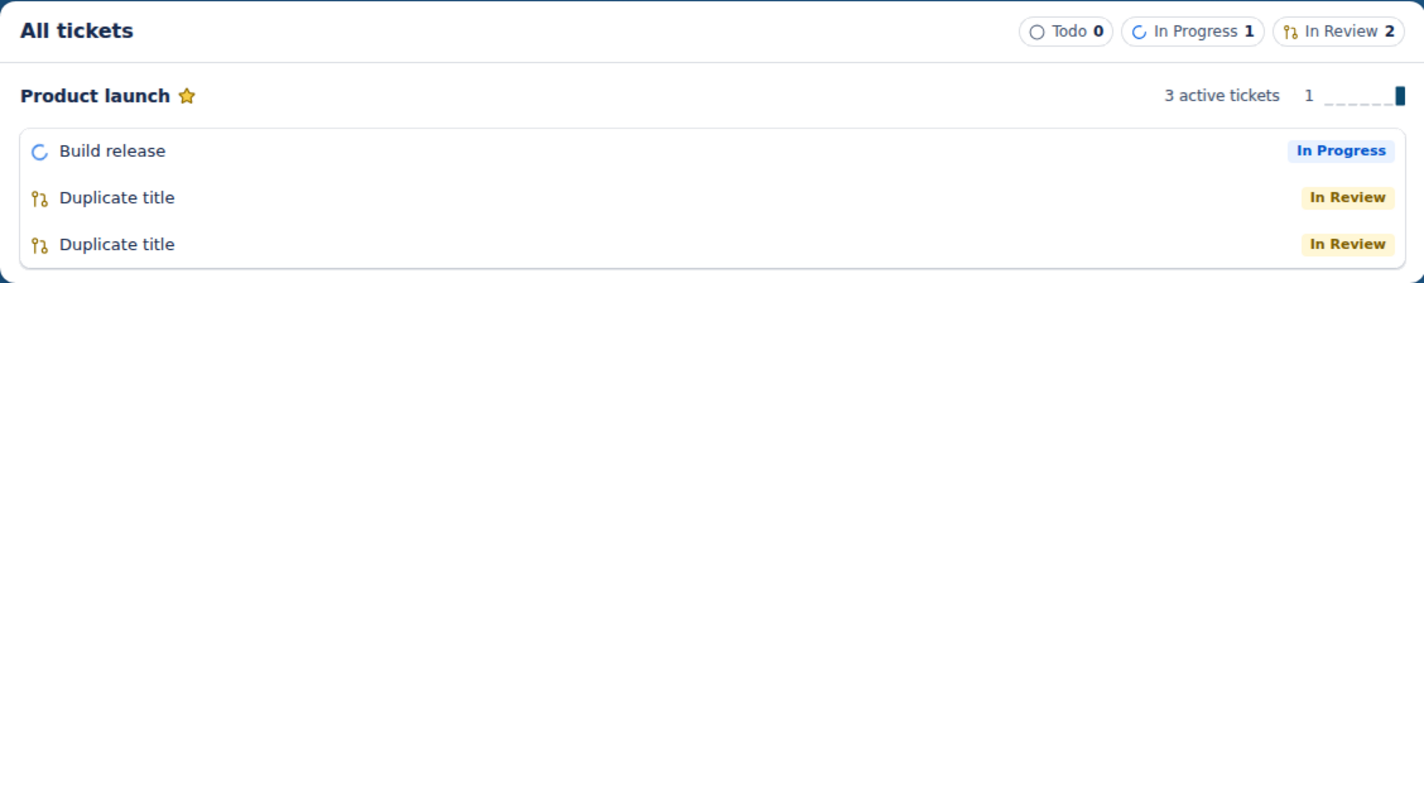
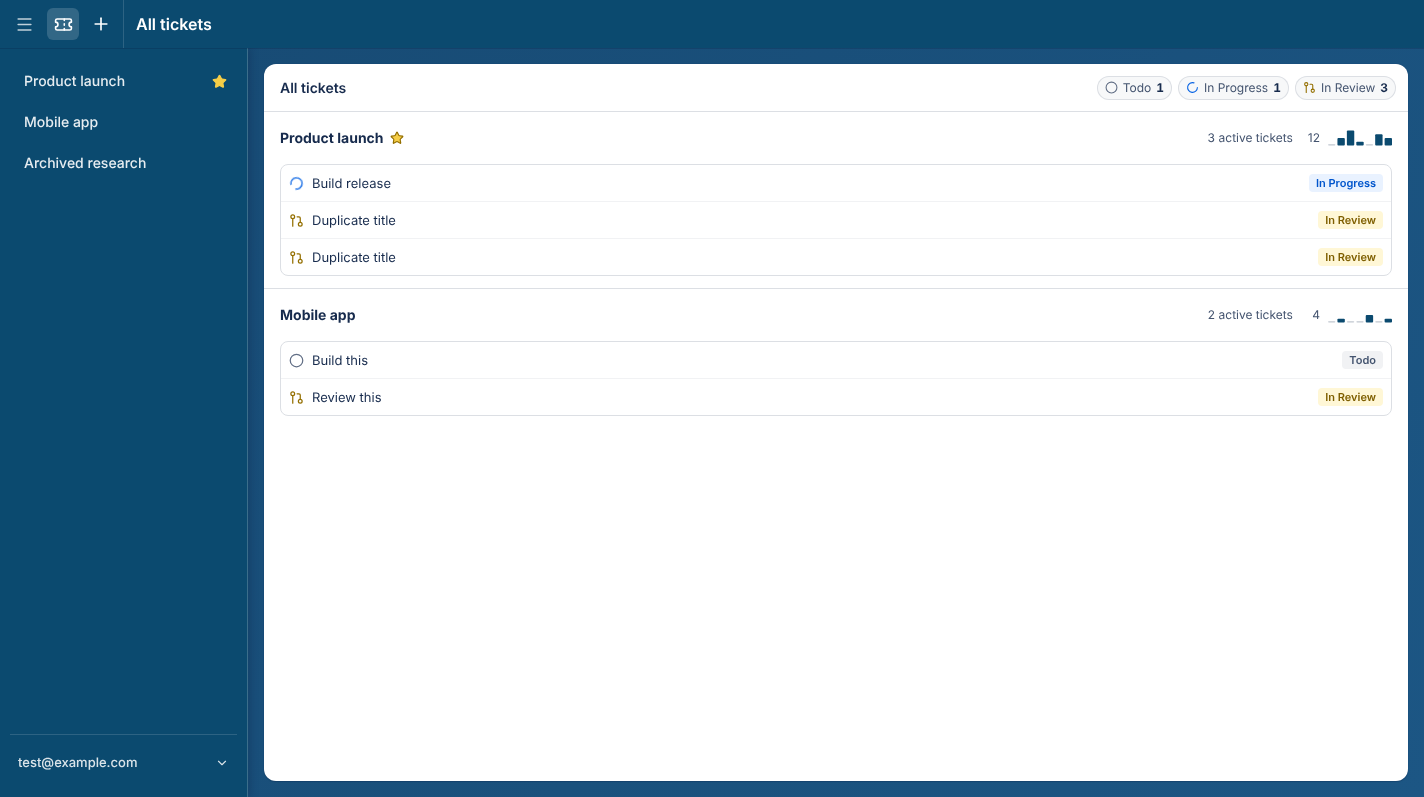
docs: refresh PR 97 screenshots for coherent ticket panel

Changed region(s): [[0.0, 0.0, 1.0, 1.0], [0.8652, 0.3915, 0.927, 0.4216], [0.2163, 0.2108, 0.2781, 0.2409]]

diff --git a/docs/pr-proofs/recent-ticket-activity/README.md b/docs/pr-proofs/recent-ticket-activity/README.md
@@ -1,6 +1,8 @@
 # Recent project activity — PR #97
 
-Desktop and mobile captures isolate the All tickets list on a full-screen white canvas. The app shell is excluded to keep review focused on the list. Screens use synthetic localStorage fixtures; inactive projects are hidden from the list while remaining outside this view. No production records or account data are shown.
+Desktop and mobile captures show the All tickets page with its full-height white panel, matching the About page workbench styling introduced in commit `d59ad10`. The app shell is included: the desktop capture shows the header and project sidebar, and the mobile capture shows the header with the sidebar collapsed. Screens use synthetic localStorage fixtures; inactive projects are hidden from the ticket list. No production records or account data are shown.
+
+These screenshots were recovered from the design-fix [Claude session](https://claude.ai/cowork/cse_01GvvdkX8cFUpSaaSKKeYjdY), where the design change was pushed but the screenshot update was blocked by missing session repository access.
 
 - [Desktop All tickets, 1424 × 797](ticket-list-desktop.png)
 - [Mobile All tickets, 390 × 844](ticket-list-mobile.png)
